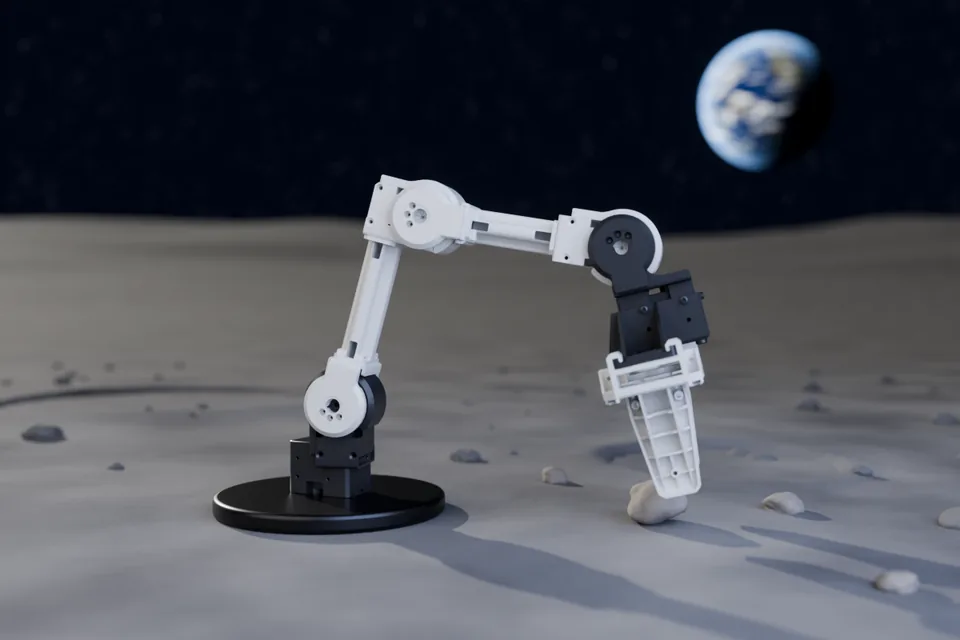
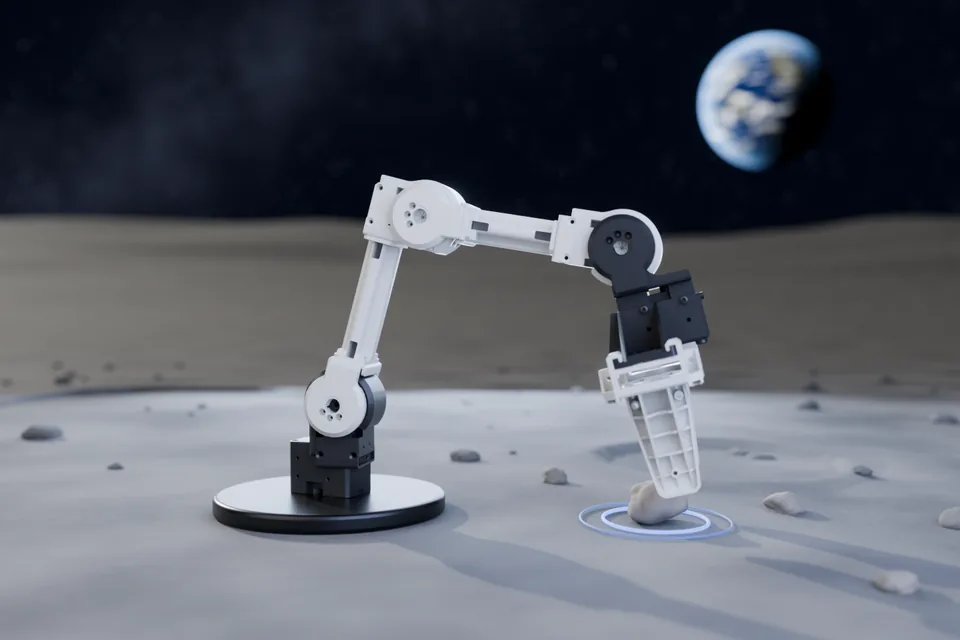
Publish site build b22120dd6ad3b3594492830c77af79845668c116

diff --git a/teaching/index.html b/teaching/index.html
@@ -1,2 +1,2 @@
 <!doctype html><html lang=en><head><meta charset=UTF-8><meta content="default-src 'self';font-src 'self' data:;img-src 'self' https://* data:;media-src 'self';style-src 'self' 'unsafe-inline';frame-src 'self' player.vimeo.com https://www.youtube-nocookie.com;base-uri 'self';form-action 'self';connect-src 'self';script-src 'self'" http-equiv=Content-Security-Policy><meta content="width=device-width,initial-scale=1.0" name=viewport><meta content=https://andrejorsula.github.io name=base><title>
-Andrej Orsula • Teaching</title><link href=https://andrejorsula.github.io/img/favicon.svg rel=icon type=image/svg+xml><link title="Andrej Orsula - Atom Feed" href=https://andrejorsula.github.io/atom.xml rel=alternate type=application/atom+xml><link href="https://andrejorsula.github.io/main.css?h=045c365e19a4d50a64bb" rel=stylesheet><link href="https://andrejorsula.github.io/style.css?h=97043a9531fd59f93819" rel=stylesheet><link href="https://andrejorsula.github.io/skins/pastel_ocean.css?h=cc193b25ef80832a376d" rel=stylesheet><meta content="light dark" name=color-scheme><meta media="(prefers-color-scheme: light)" content=#5369c1 name=theme-color><meta media="(prefers-color-scheme: dark)" content=#7c91d9 name=theme-color><meta content="Hands-on robot arm labs for Robotic Manipulation in Space at the University of Luxembourg, with open lab code." name=description><meta content="Hands-on robot arm labs for Robotic Manipulation in Space at the University of Luxembourg, with open lab code." property=og:description><meta content=Teaching property=og:title><meta content=website property=og:type><meta content="https://andrejorsula.github.io/img/profile.webp?h=a798e6be57a8ed9dd956" property=og:image><meta content=512 property=og:image:width><meta content=512 property=og:image:height><meta content="Portrait of Andrej Orsula" property=og:image:alt><meta content="Portrait of Andrej Orsula" name=twitter:image:alt><meta content="https://andrejorsula.github.io/img/profile.webp?h=a798e6be57a8ed9dd956" name=twitter:image><meta content=summary name=twitter:card><meta content=en_US property=og:locale><link href=https://andrejorsula.github.io/teaching/ rel=canonical><meta content=https://andrejorsula.github.io/teaching/ property=og:url><meta content="Andrej Orsula" property=og:site_name><noscript><link href=https://andrejorsula.github.io/no_js.css rel=stylesheet></noscript><script src=https://andrejorsula.github.io/js/initializeTheme.min.js></script><script defer src=https://andrejorsula.github.io/js/themeSwitcher.min.js></script><script src="https://andrejorsula.github.io/js/searchElasticlunr.min.js?h=7766a36e351f3f258884" defer></script><link as=font crossorigin fetchpriority=high href=https://andrejorsula.github.io/fonts/Inter4.woff2 rel=preload type=font/woff2><body><a href=#main-content id=skip-link>Skip to content</a><header><nav aria-label=Main class=navbar><div class=nav-title><a title="Go to homepage" class=home-title href=https://andrejorsula.github.io/>Andrej Orsula</a></div><button aria-label="Toggle navigation menu" class="nav-hamburger js" aria-controls=site-menu aria-expanded=false type=button><span></span><span></span><span></span></button><div class=nav-navs id=site-menu><ul><li><a class="nav-links no-hover-padding" href=https://andrejorsula.github.io/about/ title=About> About </a><li><a class="nav-links no-hover-padding" href=https://andrejorsula.github.io/research/ title=Research> Research </a><li><a class="nav-links no-hover-padding" aria-current=page href=https://andrejorsula.github.io/teaching/ title=Teaching> Teaching </a><li><a class="nav-links no-hover-padding" href=https://andrejorsula.github.io/projects/ title=Projects> Projects </a><li><a class="nav-links no-hover-padding" href=https://andrejorsula.github.io/blog/ title=Blog> Blog </a></ul></div><div class=nav-actions><div aria-label="Click or press $SHORTCUT to open search" class="search-icon interactive-icon js" title="Click or press $SHORTCUT to open search" id=search-button role=button tabindex=0><svg viewbox="0 0 24 24" aria-hidden=true fill=none focusable=false stroke=currentColor stroke-linecap=round stroke-linejoin=round stroke-width=1.8 xmlns=http://www.w3.org/2000/svg><circle cx=10.8 cy=10.8 r=6.3 /><path d="m15.4 15.4 5 5"/></svg></div><div aria-label="Toggle dark mode" class="theme-switcher js" title="Toggle dark/light mode" aria-pressed=false role=button tabindex=0></div><div aria-hidden=true class=theme-resetter hidden></div></div></nav></header><script defer src=https://andrejorsula.github.io/js/nav.js></script><div class=content id=main-content><main><h1 class="title-container section-title bottom-divider">Teaching</h1><div id=page-content><section aria-labelledby=robotic_manipulation_in_space class=teaching-course><div class=teaching-course-header><h2 id=robotic_manipulation_in_space>Robotic Manipulation in Space</h2><div class=teaching-course-meta><span class=teaching-meta-item><svg viewbox="0 0 24 24" aria-hidden=true class=teaching-meta-icon focusable=false><rect height=16 rx=2 width=18 x=3 y=5 /><path d="M3 10h18M8 3v4m8-4v4"/></svg><span class=teaching-years>2022–2026</span></span><span class=teaching-meta-item><svg viewbox="0 0 24 24" aria-hidden=true class=teaching-meta-icon focusable=false><path d="M12 21s-7-6.2-7-11.5a7 7 0 0 1 14 0C19 14.8 12 21 12 21z"/><circle cx=12 cy=9.5 r=2.5 /></svg><a href=https://www.uni.lu/en/>University of Luxembourg</a></span></div></div><img alt="Rendering of the two lab arms on the Moon with Earth overhead: a translucent OpenMANIPULATOR-X shows its planned grasp of a rock sample, and the PhantomX Pincher holds a cube on its task board" class=teaching-course-image height=768 src=images/lunar_lab.webp width=1792><p class=teaching-lead>I prepare and teach the hands-on labs for third-semester students of the <a href=https://www.uni.lu/fstm-en/study-programs/master-in-space-technologies-and-business>Master in Space Technologies and Business</a> (formerly the Interdisciplinary Space Master). Students program real robot arms, in simulation and on hardware.<ul aria-label=Topics class=teaching-topics><li class=teaching-topic><span aria-hidden=true>🦾</span> Robot Kinematics<li class=teaching-topic><span aria-hidden=true>🗺</span> Motion Planning<li class=teaching-topic><span aria-hidden=true>🎮</span> Robot Control<li class=teaching-topic><span aria-hidden=true>🔭</span> Space Applications</ul><h3 class=teaching-subheading id=lab_code>Lab code</h3><div class=teaching-repos><a rel="noopener noreferrer" class=teaching-repo href=https://github.com/snt-spacer/open_manipulator-RMinS target=_blank> <img alt class=teaching-repo-image height=640 loading=lazy src=images/open_manipulator_x.webp width=960> <span class=teaching-repo-info> <span class=teaching-repo-body> <span class=teaching-repo-name>OpenMANIPULATOR-X</span> <span class=teaching-repo-stack>ROS 2 Jazzy · MoveIt 2 · Gazebo · Docker</span> <span class=teaching-repo-path><span>snt-spacer/</span><wbr><span>open_manipulator-RMinS</span></span> </span> <svg viewbox="0 0 24 24" aria-hidden=true class=teaching-repo-arrow focusable=false><path d="M7 17 17 7M9 7h8v8"/></svg> </span> </a><a rel="noopener noreferrer" class=teaching-repo href=https://github.com/snt-spacer/phantomx_pincher target=_blank> <img alt class=teaching-repo-image height=640 loading=lazy src=images/phantomx_pincher.webp width=960> <span class=teaching-repo-info> <span class=teaching-repo-body> <span class=teaching-repo-name>PhantomX Pincher</span> <span class=teaching-repo-stack>ROS 2 Galactic · MoveIt 2 · Gazebo</span> <span class=teaching-repo-path><span>snt-spacer/</span><wbr><span>phantomx_pincher</span></span> </span> <svg viewbox="0 0 24 24" aria-hidden=true class=teaching-repo-arrow focusable=false><path d="M7 17 17 7M9 7h8v8"/></svg> </span> </a></div></section></div></main></div><footer><section><nav aria-label="Social links" class="socials nav-navs"><ul><li><a class="nav-links no-hover-padding social" href=https://andrejorsula.github.io/atom.xml> <img alt="RSS feed" title="RSS feed" height=24 loading=lazy src=https://andrejorsula.github.io/social_icons/rss.svg width=24> </a><li class=js><a class="nav-links no-hover-padding social" data-encoded-email="b3JzdWxhLmFuZHJlakBnbWFpbC5jb20=" href=#><img alt=Email height=24 loading=lazy src=https://andrejorsula.github.io/social_icons/email.svg title=Email width=24> </a><li><a class="nav-links no-hover-padding social" rel=" me" href=https://github.com/AndrejOrsula> <img alt=GitHub height=24 loading=lazy src=https://andrejorsula.github.io/social_icons/github.svg title=GitHub width=24> </a><li><a class="nav-links no-hover-padding social" rel=" me" href=https://www.linkedin.com/in/AndrejOrsula> <img alt=LinkedIn height=24 loading=lazy src=https://andrejorsula.github.io/social_icons/linkedin.svg title=LinkedIn width=24> </a><li><a class="nav-links no-hover-padding social" rel=" me" href=https://orcid.org/0000-0003-0706-1191> <img alt=ORCID height=24 loading=lazy src=https://andrejorsula.github.io/social_icons/orcid.svg title=ORCID width=24> </a><li><a class="nav-links no-hover-padding social" href="https://scholar.google.com/citations?user=sbQC2dAAAAAJ" rel=" me"> <img alt="Google Scholar" title="Google Scholar" height=24 loading=lazy src=https://andrejorsula.github.io/social_icons/google-scholar.svg width=24> </a><li><a class="nav-links no-hover-padding social" rel=" me" href=https://youtube.com/channel/UCqatO1yebNRswWSO2fxRWTg> <img alt=YouTube height=24 loading=lazy src=https://andrejorsula.github.io/social_icons/youtube.svg title=YouTube width=24> </a></ul></nav></section><script async src=https://andrejorsula.github.io/js/decodeMail.min.js></script><div class="search-modal js" aria-labelledby=modalTitle aria-modal=true id=searchModal role=dialog><h2 class=visually-hidden id=modalTitle>Search</h2><div id=modal-content><div id=searchBar><div aria-hidden=true class=search-icon><svg viewbox="0 0 24 24" aria-hidden=true fill=none focusable=false stroke=currentColor stroke-linecap=round stroke-linejoin=round stroke-width=1.8 xmlns=http://www.w3.org/2000/svg><circle cx=10.8 cy=10.8 r=6.3 /><path d="m15.4 15.4 5 5"/></svg></div><input aria-controls=results-container aria-expanded=false aria-labelledby=modalTitle autocomplete=off id=searchInput placeholder=Search… role=combobox spellcheck=false><div aria-label="Clear search" class="close-icon interactive-icon" title="Clear search" id=clear-search role=button tabindex=0><svg viewbox="0 0 24 24" aria-hidden=true fill=none focusable=false stroke=currentColor stroke-linecap=round stroke-linejoin=round stroke-width=1.8 xmlns=http://www.w3.org/2000/svg><path d="m6 6 12 12m0-12L6 18"/></svg></div></div><div id=results-container><div id=results-info><span id=zero_results> No results</span><span id=one_results> $NUMBER result</span><span id=many_results> $NUMBER results</span><span id=two_results> $NUMBER results</span><span id=few_results> $NUMBER results</span></div><div id=results role=listbox></div></div></div></div></footer>
+Andrej Orsula • Teaching</title><link href=https://andrejorsula.github.io/img/favicon.svg rel=icon type=image/svg+xml><link title="Andrej Orsula - Atom Feed" href=https://andrejorsula.github.io/atom.xml rel=alternate type=application/atom+xml><link href="https://andrejorsula.github.io/main.css?h=045c365e19a4d50a64bb" rel=stylesheet><link href="https://andrejorsula.github.io/style.css?h=97043a9531fd59f93819" rel=stylesheet><link href="https://andrejorsula.github.io/skins/pastel_ocean.css?h=cc193b25ef80832a376d" rel=stylesheet><meta content="light dark" name=color-scheme><meta media="(prefers-color-scheme: light)" content=#5369c1 name=theme-color><meta media="(prefers-color-scheme: dark)" content=#7c91d9 name=theme-color><meta content="Hands-on robot arm labs for Robotic Manipulation in Space at the University of Luxembourg, with open lab code." name=description><meta content="Hands-on robot arm labs for Robotic Manipulation in Space at the University of Luxembourg, with open lab code." property=og:description><meta content=Teaching property=og:title><meta content=website property=og:type><meta content="https://andrejorsula.github.io/img/social-teaching.webp?h=184bd43cae506567e8b7" property=og:image><meta content=1200 property=og:image:width><meta content=630 property=og:image:height><meta content="Rendering of the OpenMANIPULATOR-X and PhantomX Pincher lab arms on the Moon with Earth overhead" property=og:image:alt><meta content="Rendering of the OpenMANIPULATOR-X and PhantomX Pincher lab arms on the Moon with Earth overhead" name=twitter:image:alt><meta content="https://andrejorsula.github.io/img/social-teaching.webp?h=184bd43cae506567e8b7" name=twitter:image><meta content=summary_large_image name=twitter:card><meta content=en_US property=og:locale><link href=https://andrejorsula.github.io/teaching/ rel=canonical><meta content=https://andrejorsula.github.io/teaching/ property=og:url><meta content="Andrej Orsula" property=og:site_name><noscript><link href=https://andrejorsula.github.io/no_js.css rel=stylesheet></noscript><script src=https://andrejorsula.github.io/js/initializeTheme.min.js></script><script defer src=https://andrejorsula.github.io/js/themeSwitcher.min.js></script><script src="https://andrejorsula.github.io/js/searchElasticlunr.min.js?h=7766a36e351f3f258884" defer></script><link as=font crossorigin fetchpriority=high href=https://andrejorsula.github.io/fonts/Inter4.woff2 rel=preload type=font/woff2><body><a href=#main-content id=skip-link>Skip to content</a><header><nav aria-label=Main class=navbar><div class=nav-title><a title="Go to homepage" class=home-title href=https://andrejorsula.github.io/>Andrej Orsula</a></div><button aria-label="Toggle navigation menu" class="nav-hamburger js" aria-controls=site-menu aria-expanded=false type=button><span></span><span></span><span></span></button><div class=nav-navs id=site-menu><ul><li><a class="nav-links no-hover-padding" href=https://andrejorsula.github.io/about/ title=About> About </a><li><a class="nav-links no-hover-padding" href=https://andrejorsula.github.io/research/ title=Research> Research </a><li><a class="nav-links no-hover-padding" aria-current=page href=https://andrejorsula.github.io/teaching/ title=Teaching> Teaching </a><li><a class="nav-links no-hover-padding" href=https://andrejorsula.github.io/projects/ title=Projects> Projects </a><li><a class="nav-links no-hover-padding" href=https://andrejorsula.github.io/blog/ title=Blog> Blog </a></ul></div><div class=nav-actions><div aria-label="Click or press $SHORTCUT to open search" class="search-icon interactive-icon js" title="Click or press $SHORTCUT to open search" id=search-button role=button tabindex=0><svg viewbox="0 0 24 24" aria-hidden=true fill=none focusable=false stroke=currentColor stroke-linecap=round stroke-linejoin=round stroke-width=1.8 xmlns=http://www.w3.org/2000/svg><circle cx=10.8 cy=10.8 r=6.3 /><path d="m15.4 15.4 5 5"/></svg></div><div aria-label="Toggle dark mode" class="theme-switcher js" title="Toggle dark/light mode" aria-pressed=false role=button tabindex=0></div><div aria-hidden=true class=theme-resetter hidden></div></div></nav></header><script defer src=https://andrejorsula.github.io/js/nav.js></script><div class=content id=main-content><main><h1 class="title-container section-title bottom-divider">Teaching</h1><div id=page-content><section aria-labelledby=robotic_manipulation_in_space class=teaching-course><div class=teaching-course-header><h2 id=robotic_manipulation_in_space>Robotic Manipulation in Space</h2><div class=teaching-course-meta><span class=teaching-meta-item><svg viewbox="0 0 24 24" aria-hidden=true class=teaching-meta-icon focusable=false><rect height=16 rx=2 width=18 x=3 y=5 /><path d="M3 10h18M8 3v4m8-4v4"/></svg><span class=teaching-years>2022–2026</span></span><span class=teaching-meta-item><svg viewbox="0 0 24 24" aria-hidden=true class=teaching-meta-icon focusable=false><path d="M12 21s-7-6.2-7-11.5a7 7 0 0 1 14 0C19 14.8 12 21 12 21z"/><circle cx=12 cy=9.5 r=2.5 /></svg><a href=https://www.uni.lu/en/>University of Luxembourg</a></span></div></div><img alt="Rendering of the two lab arms on the Moon with Earth overhead: a translucent OpenMANIPULATOR-X traces its planned path to a targeted rock sample, and the PhantomX Pincher holds a cube above its task board" class=teaching-course-image height=878 src=images/lunar_lab.webp width=2048><p class=teaching-lead>I prepare and teach the hands-on labs for third-semester students of the <a href=https://www.uni.lu/fstm-en/study-programs/master-in-space-technologies-and-business>Master in Space Technologies and Business</a> (formerly the Interdisciplinary Space Master). Students program real robot arms, in simulation and on hardware.<ul aria-label=Topics class=teaching-topics><li class=teaching-topic><span aria-hidden=true>🦾</span> Robot Kinematics<li class=teaching-topic><span aria-hidden=true>🗺</span> Motion Planning<li class=teaching-topic><span aria-hidden=true>🎮</span> Robot Control<li class=teaching-topic><span aria-hidden=true>🔭</span> Space Applications</ul><h3 class=teaching-subheading id=lab_code>Lab code</h3><div class=teaching-repos><a rel="noopener noreferrer" class=teaching-repo href=https://github.com/snt-spacer/open_manipulator-RMinS target=_blank> <img alt class=teaching-repo-image height=640 loading=lazy src=images/open_manipulator_x.webp width=960> <span class=teaching-repo-info> <span class=teaching-repo-body> <span class=teaching-repo-name>OpenMANIPULATOR-X</span> <span class=teaching-repo-stack>ROS 2 Jazzy · MoveIt 2 · Gazebo · Docker</span> <span class=teaching-repo-path><span>snt-spacer/</span><wbr><span>open_manipulator-RMinS</span></span> </span> <svg viewbox="0 0 24 24" aria-hidden=true class=teaching-repo-arrow focusable=false><path d="M7 17 17 7M9 7h8v8"/></svg> </span> </a><a rel="noopener noreferrer" class=teaching-repo href=https://github.com/snt-spacer/phantomx_pincher target=_blank> <img alt class=teaching-repo-image height=640 loading=lazy src=images/phantomx_pincher.webp width=960> <span class=teaching-repo-info> <span class=teaching-repo-body> <span class=teaching-repo-name>PhantomX Pincher</span> <span class=teaching-repo-stack>ROS 2 Galactic · MoveIt 2 · Gazebo</span> <span class=teaching-repo-path><span>snt-spacer/</span><wbr><span>phantomx_pincher</span></span> </span> <svg viewbox="0 0 24 24" aria-hidden=true class=teaching-repo-arrow focusable=false><path d="M7 17 17 7M9 7h8v8"/></svg> </span> </a></div></section></div></main></div><footer><section><nav aria-label="Social links" class="socials nav-navs"><ul><li><a class="nav-links no-hover-padding social" href=https://andrejorsula.github.io/atom.xml> <img alt="RSS feed" title="RSS feed" height=24 loading=lazy src=https://andrejorsula.github.io/social_icons/rss.svg width=24> </a><li class=js><a class="nav-links no-hover-padding social" data-encoded-email="b3JzdWxhLmFuZHJlakBnbWFpbC5jb20=" href=#><img alt=Email height=24 loading=lazy src=https://andrejorsula.github.io/social_icons/email.svg title=Email width=24> </a><li><a class="nav-links no-hover-padding social" rel=" me" href=https://github.com/AndrejOrsula> <img alt=GitHub height=24 loading=lazy src=https://andrejorsula.github.io/social_icons/github.svg title=GitHub width=24> </a><li><a class="nav-links no-hover-padding social" rel=" me" href=https://www.linkedin.com/in/AndrejOrsula> <img alt=LinkedIn height=24 loading=lazy src=https://andrejorsula.github.io/social_icons/linkedin.svg title=LinkedIn width=24> </a><li><a class="nav-links no-hover-padding social" rel=" me" href=https://orcid.org/0000-0003-0706-1191> <img alt=ORCID height=24 loading=lazy src=https://andrejorsula.github.io/social_icons/orcid.svg title=ORCID width=24> </a><li><a class="nav-links no-hover-padding social" href="https://scholar.google.com/citations?user=sbQC2dAAAAAJ" rel=" me"> <img alt="Google Scholar" title="Google Scholar" height=24 loading=lazy src=https://andrejorsula.github.io/social_icons/google-scholar.svg width=24> </a><li><a class="nav-links no-hover-padding social" rel=" me" href=https://youtube.com/channel/UCqatO1yebNRswWSO2fxRWTg> <img alt=YouTube height=24 loading=lazy src=https://andrejorsula.github.io/social_icons/youtube.svg title=YouTube width=24> </a></ul></nav></section><script async src=https://andrejorsula.github.io/js/decodeMail.min.js></script><div class="search-modal js" aria-labelledby=modalTitle aria-modal=true id=searchModal role=dialog><h2 class=visually-hidden id=modalTitle>Search</h2><div id=modal-content><div id=searchBar><div aria-hidden=true class=search-icon><svg viewbox="0 0 24 24" aria-hidden=true fill=none focusable=false stroke=currentColor stroke-linecap=round stroke-linejoin=round stroke-width=1.8 xmlns=http://www.w3.org/2000/svg><circle cx=10.8 cy=10.8 r=6.3 /><path d="m15.4 15.4 5 5"/></svg></div><input aria-controls=results-container aria-expanded=false aria-labelledby=modalTitle autocomplete=off id=searchInput placeholder=Search… role=combobox spellcheck=false><div aria-label="Clear search" class="close-icon interactive-icon" title="Clear search" id=clear-search role=button tabindex=0><svg viewbox="0 0 24 24" aria-hidden=true fill=none focusable=false stroke=currentColor stroke-linecap=round stroke-linejoin=round stroke-width=1.8 xmlns=http://www.w3.org/2000/svg><path d="m6 6 12 12m0-12L6 18"/></svg></div></div><div id=results-container><div id=results-info><span id=zero_results> No results</span><span id=one_results> $NUMBER result</span><span id=many_results> $NUMBER results</span><span id=two_results> $NUMBER results</span><span id=few_results> $NUMBER results</span></div><div id=results role=listbox></div></div></div></div></footer>
